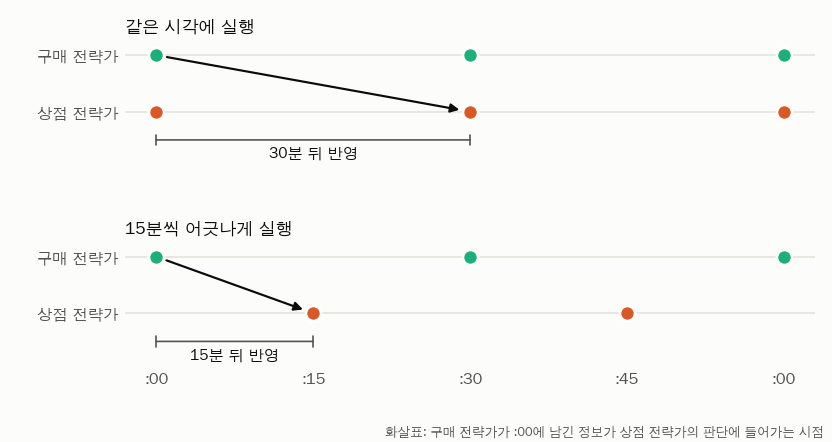
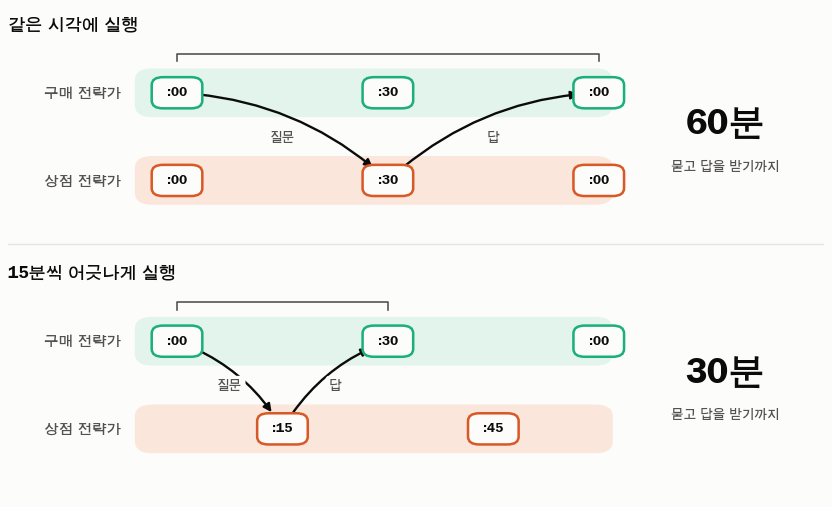
[week-08] REPORT 5.2 chart redrawn (user: not good enough): two lanes per schedule, a chip per run, the question and answer as arcs, the round trip as a big number (60 vs 30 min)

diff --git a/submissions/23530007/week-08/reports/plot_stagger.py b/submissions/23530007/week-08/reports/plot_stagger.py
@@ -1,37 +1,56 @@
-"""REPORT 5.2: why the two strategists run 15 minutes apart (a note left by one reaches the other in 15 min, not 30)."""
+"""REPORT 5.2: why the two strategists run 15 minutes apart. One panel per schedule: two lanes, a chip per run,
+the question (buy -> shop) and the answer (shop -> buy) as arcs, and the round trip as a big number on the right."""
 import sys
-from matplotlib.patches import FancyArrowPatch
-from chart_style import fig, save, US, AQUA, INK, INK2, GRID
+from matplotlib.patches import FancyBboxPatch, FancyArrowPatch
+from chart_style import fig, save, US, AQUA, INK, INK2, GRID, SURF
 
 OUT = sys.argv[1] if len(sys.argv) > 1 else "reports/stagger.png"
+BUY_FILL, SELL_FILL = "#e3f4ec", "#fbe6dc"
+X0, X1 = -6, 62          # the hour on the x axis (minutes)
+HERO = 78                # where the round-trip number sits
 
-f, axes = fig(6.4, 3.4, nrows=2, sharex=True)
-cases = [
-    ("같은 시각에 실행", [0, 30, 60], [0, 30, 60], (0, 30), "30분 뒤 반영"),
-    ("15분씩 어긋나게 실행", [0, 30, 60], [15, 45], (0, 15), "15분 뒤 반영"),
-]
-for ax, (name, buy, sell, (a, b), gap) in zip(axes, cases):
-    ax.set_ylim(-0.95, 1.35); ax.set_yticks([0, 1]); ax.set_yticklabels(["상점 전략가", "구매 전략가"])
-    ax.tick_params(axis="y", length=0, labelsize=8.5)
-    for s in ("left", "top", "right"):
-        ax.spines[s].set_visible(False)
-    ax.spines["bottom"].set_visible(False)
-    for y in (0, 1):
-        ax.plot([-3, 63], [y, y], color=GRID, lw=1, zorder=0)
-    ax.scatter(buy, [1] * len(buy), s=70, color=AQUA, zorder=3, edgecolor="white", linewidth=1.5)
-    ax.scatter(sell, [0] * len(sell), s=70, color=US, zorder=3, edgecolor="white", linewidth=1.5)
-    ax.add_patch(FancyArrowPatch((a, 1), (b, 0), arrowstyle="-|>", mutation_scale=10, lw=1.2, color=INK,
-                                 shrinkA=6, shrinkB=6))
-    ax.add_patch(FancyArrowPatch((a, -0.5), (b, -0.5), arrowstyle="|-|", mutation_scale=3, lw=0.9, color=INK2,
-                                 shrinkA=0, shrinkB=0))
-    ax.text((a + b) / 2, -0.75, gap, fontsize=8.5, color=INK, ha="center", va="center")
-    ax.set_title(name, loc="left", fontsize=9.5, color=INK, pad=2)
-axes[1].set_xlim(-3, 63)
-axes[1].set_xticks([0, 15, 30, 45, 60]); axes[1].set_xticklabels([":00", ":15", ":30", ":45", ":00"])
-axes[0].tick_params(axis="x", length=0)
-axes[1].tick_params(axis="x", length=0)
-f.text(0.99, 0.015, "화살표: 구매 전략가가 :00에 남긴 정보가 상점 전략가의 판단에 들어가는 시점", ha="right",
-       fontsize=7, color=INK2)
-f.subplots_adjust(left=0.15, right=0.98, top=0.92, bottom=0.17, hspace=0.55)
+f, ax = fig(6.4, 3.9)
+ax.set_xlim(-24, 92); ax.set_ylim(-1, 101); ax.axis("off")
+
+
+def chip(x, y, text, edge):
+    ax.add_patch(FancyBboxPatch((x - 3.6, y - 3.2), 7.2, 6.4, boxstyle="round,pad=0,rounding_size=1.6",
+                                fc=SURF, ec=edge, lw=1.4, zorder=3))
+    ax.text(x, y, text, ha="center", va="center", fontsize=7.5, color=INK, zorder=4)
+
+
+def hop(x1, y1, x2, y2, label, rad):
+    ax.add_patch(FancyArrowPatch((x1, y1), (x2, y2), arrowstyle="-|>", mutation_scale=9, lw=1.3, color=INK,
+                                 connectionstyle=f"arc3,rad={rad}", shrinkA=11, shrinkB=11, zorder=2))
+    ax.text((x1 + x2) / 2, (y1 + y2) / 2, label, ha="center", va="center", fontsize=7, color=INK2,
+            bbox=dict(boxstyle="round,pad=0.25", fc=SURF, ec="none"), zorder=2)
+
+
+def panel(top, title, buy, sell, path, trip):
+    yb, ys = top - 14, top - 32                       # lane centres
+    ax.text(-24, top, title, fontsize=9.5, color=INK, fontweight="bold", va="center")
+    for y, fill, name in ((yb, BUY_FILL, "구매 전략가"), (ys, SELL_FILL, "상점 전략가")):
+        ax.add_patch(FancyBboxPatch((X0, y - 5), X1 - X0, 10, boxstyle="round,pad=0,rounding_size=2.5",
+                                    fc=fill, ec="none", zorder=0))
+        ax.text(-8, y, name, ha="right", va="center", fontsize=8, color=INK2)
+    for t in buy:
+        chip(t, yb, f":{t % 60:02d}", AQUA)
+    for t in sell:
+        chip(t, ys, f":{t % 60:02d}", US)
+    (qa, qb), (aa, ab) = path                          # question buy->shop, answer shop->buy
+    hop(qa, yb, qb, ys, "질문", -0.18)
+    hop(aa, ys, ab, yb, "답", -0.18)
+    # round trip: bracket over the buyer lane, big number on the right
+    ax.plot([qa, qa, ab, ab], [yb + 6.5, yb + 8, yb + 8, yb + 6.5], color=INK2, lw=0.9)
+    ax.text(HERO, (yb + ys) / 2 + 2.5, f"{trip}분", ha="center", va="center", fontsize=20, color=INK,
+            fontweight="bold")
+    ax.text(HERO, (yb + ys) / 2 - 6, "묻고 답을 받기까지", ha="center", va="center", fontsize=7, color=INK2)
+
+
+panel(97, "같은 시각에 실행", [0, 30, 60], [0, 30, 60], ((0, 30), (30, 60)), 60)
+ax.plot([-24, 92], [52, 52], color=GRID, lw=0.8)
+panel(46, "15분씩 어긋나게 실행", [0, 30, 60], [15, 45], ((0, 15), (15, 30)), 30)
+
+f.subplots_adjust(left=0.01, right=0.99, top=0.99, bottom=0.01)
 save(f, OUT)
 print(OUT)
